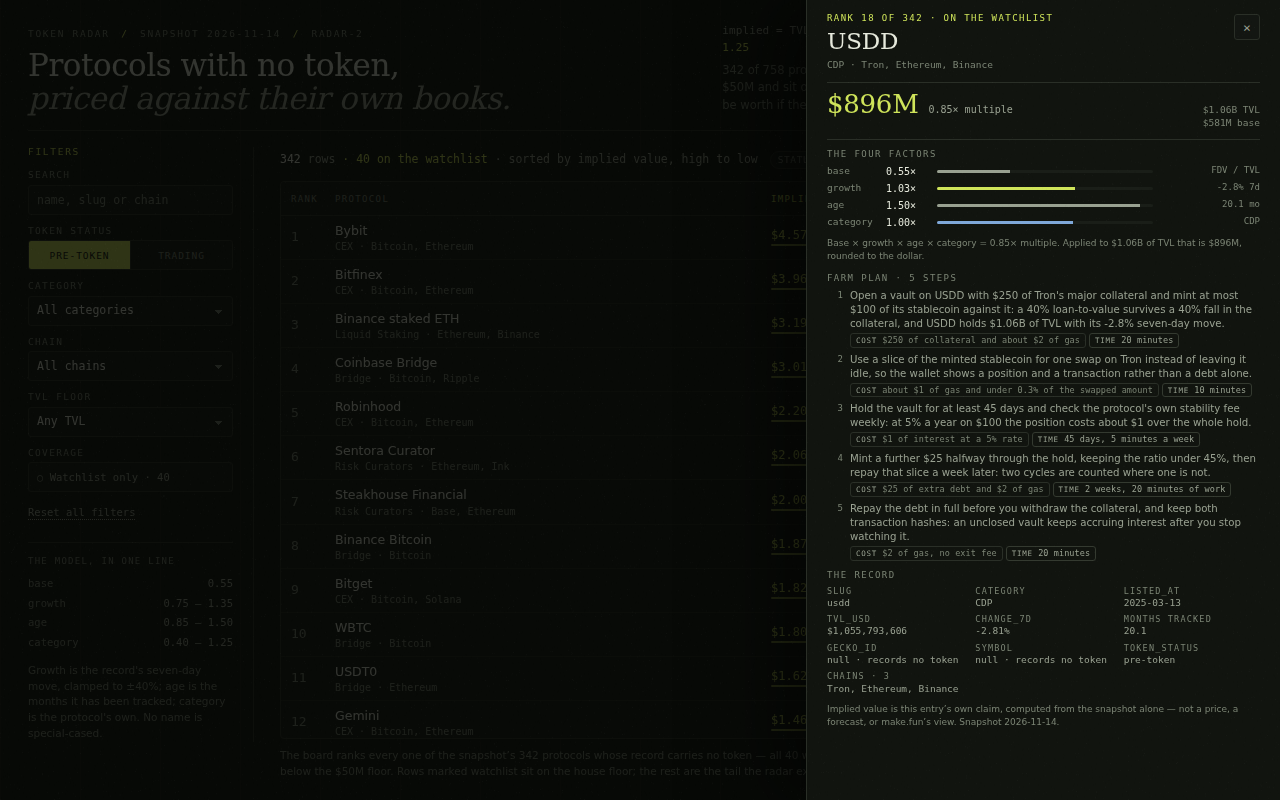
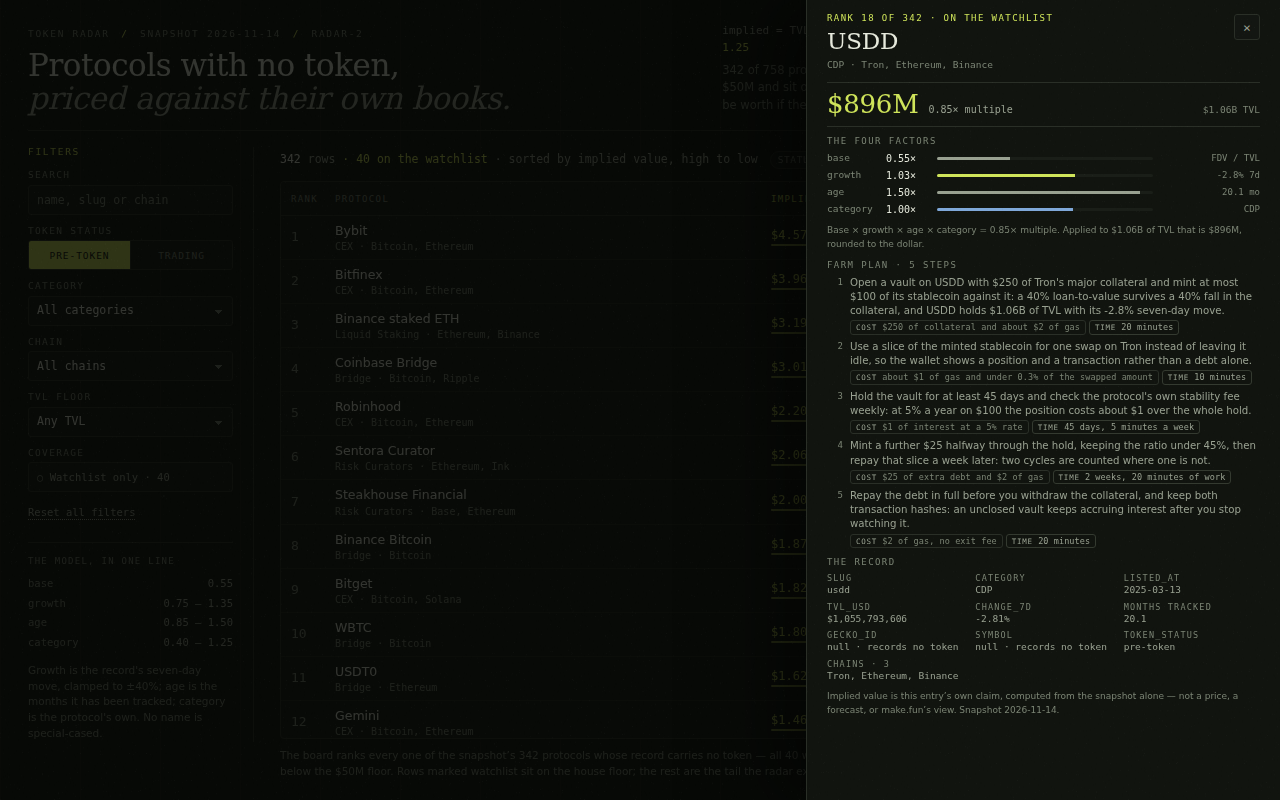
Detail drawer: drop the ambiguous base figure, keep the TVL anchor

Changed region(s): [[0.625, 0.1562, 0.9688, 0.9062], [0.9375, 0.1562, 1.0, 0.2812]]

diff --git a/dashboard/app.css b/dashboard/app.css
@@ -389,7 +389,7 @@ td.age { font: 400 11.5px/1 var(--mono); color: var(--dim); font-variant-numeric
 }
 .d-value .big { font: 400 26px/1 var(--serif); color: var(--accent); letter-spacing: -0.01em; }
 .d-value .mult { font: 400 10px/1.35 var(--mono); color: var(--dim); }
-.d-value .anchor { margin-left: auto; font: 400 9.5px/1.35 var(--mono); color: var(--faint); text-align: right; white-space: pre-line; }
+.d-value .anchor { margin-left: auto; font: 400 9.5px/1.35 var(--mono); color: var(--faint); text-align: right; }
 
 .d-sec { margin-top: 10px; }
 .d-sec h3 {

diff --git a/dashboard/app.js b/dashboard/app.js
@@ -369,7 +369,7 @@
     append(drawer, el('div', { class: 'd-value' },
       el('span', { class: 'big', text: fmtUsd(value) }),
       el('span', { class: 'mult', text: trading ? 'market cap' : (mult === null ? '' : fmtMultiple(mult) + ' multiple') }),
-      el('span', { class: 'anchor', text: fmtUsd(r.tvl_usd) + ' TVL' + (trading ? '' : '\n' + fmtUsd(r.tvl_usd * r.factors.base) + ' base') })
+      el('span', { class: 'anchor', text: fmtUsd(r.tvl_usd) + ' TVL' })
     ));
 
     if (trading) {
